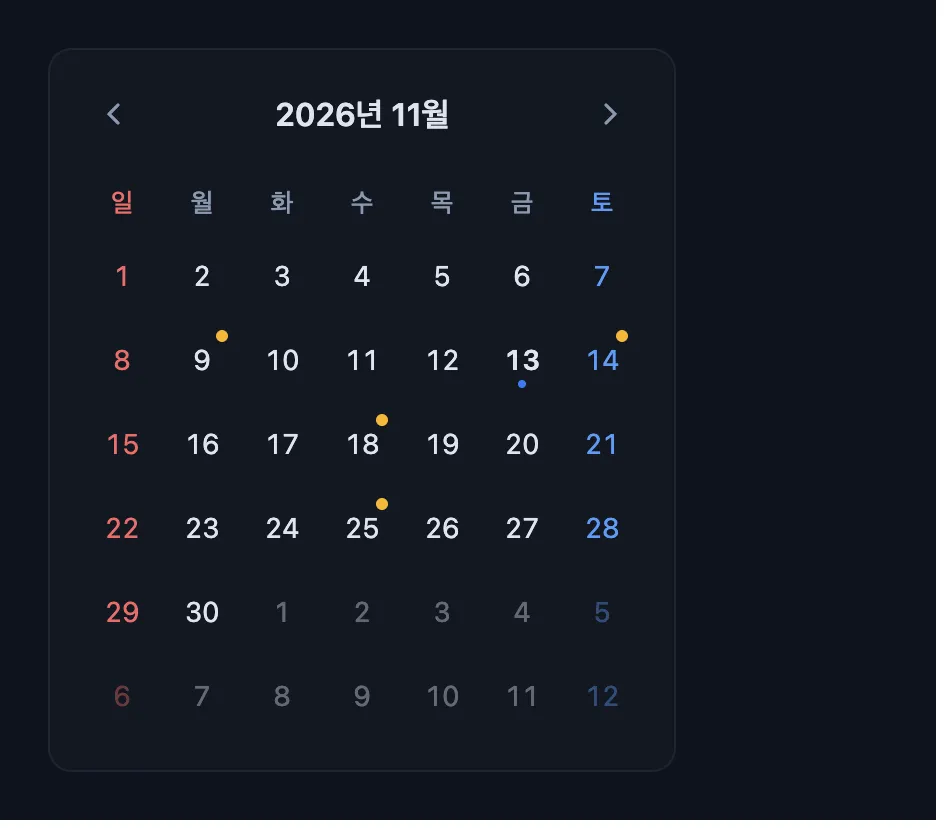
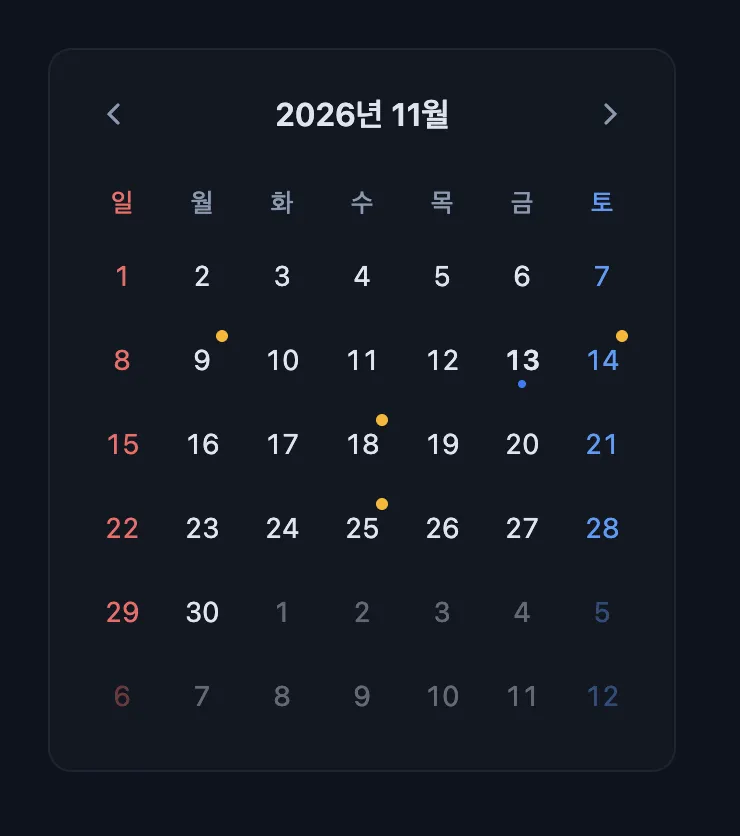
Fix Calendar stretching in flex layouts and dark Storybook background
The calendar box now sizes to its grid instead of stretching to the
parent width. Tokens declare color-scheme per theme, and the Storybook
page background follows the active theme. Screenshots refreshed.

diff --git a/src/tokens/tokens.css b/src/tokens/tokens.css
@@ -4,6 +4,8 @@
  * :root 나 특정 영역에 다시 선언하면 브랜드에 맞게 바꿀 수 있습니다.
  */
 :root {
+  color-scheme: light;
+
   /* 브랜드 색 */
   --ds-color-primary: #2563eb;
   --ds-color-primary-hover: #1d4ed8;
@@ -71,6 +73,8 @@
 }
 
 [data-theme='dark'] {
+  color-scheme: dark;
+
   --ds-color-primary: #3b82f6;
   --ds-color-primary-hover: #60a5fa;
   --ds-color-primary-subtle: rgb(59 130 246 / 0.16);

diff --git a/src/components/Calendar/Calendar.css b/src/components/Calendar/Calendar.css
@@ -1,6 +1,9 @@
 .ds-calendar {
   --ds-calendar-cell: 40px;
   display: inline-block;
+  width: fit-content;
+  max-width: 100%;
+  box-sizing: border-box;
   padding: var(--ds-space-4);
   border: 1px solid var(--ds-color-border);
   border-radius: var(--ds-radius-lg);

diff --git a/.storybook/preview-head.html b/.storybook/preview-head.html
@@ -1,0 +1,3 @@
+<style>
+  html, body { background: var(--ds-color-bg); }
+</style>
